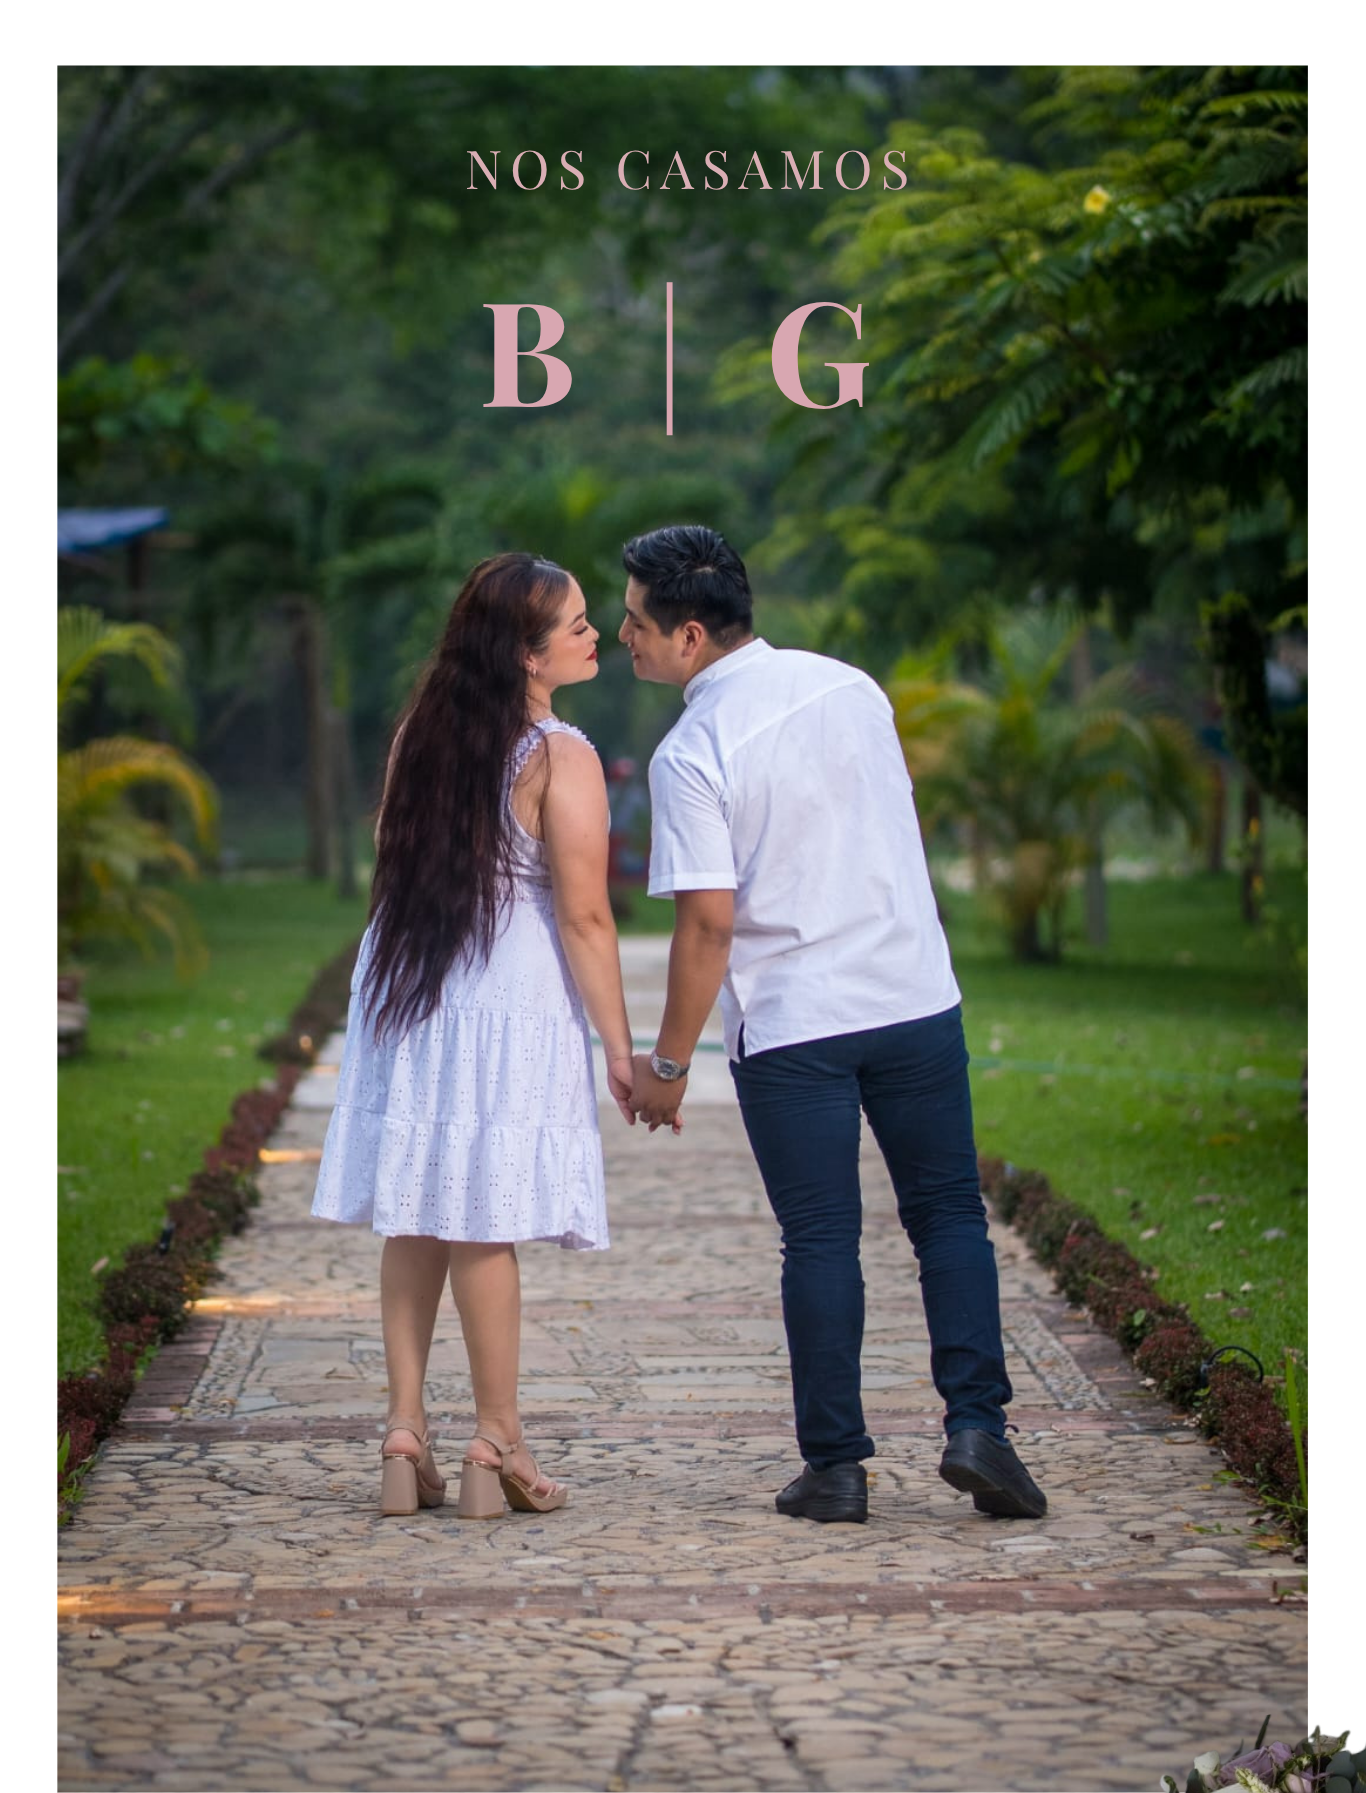
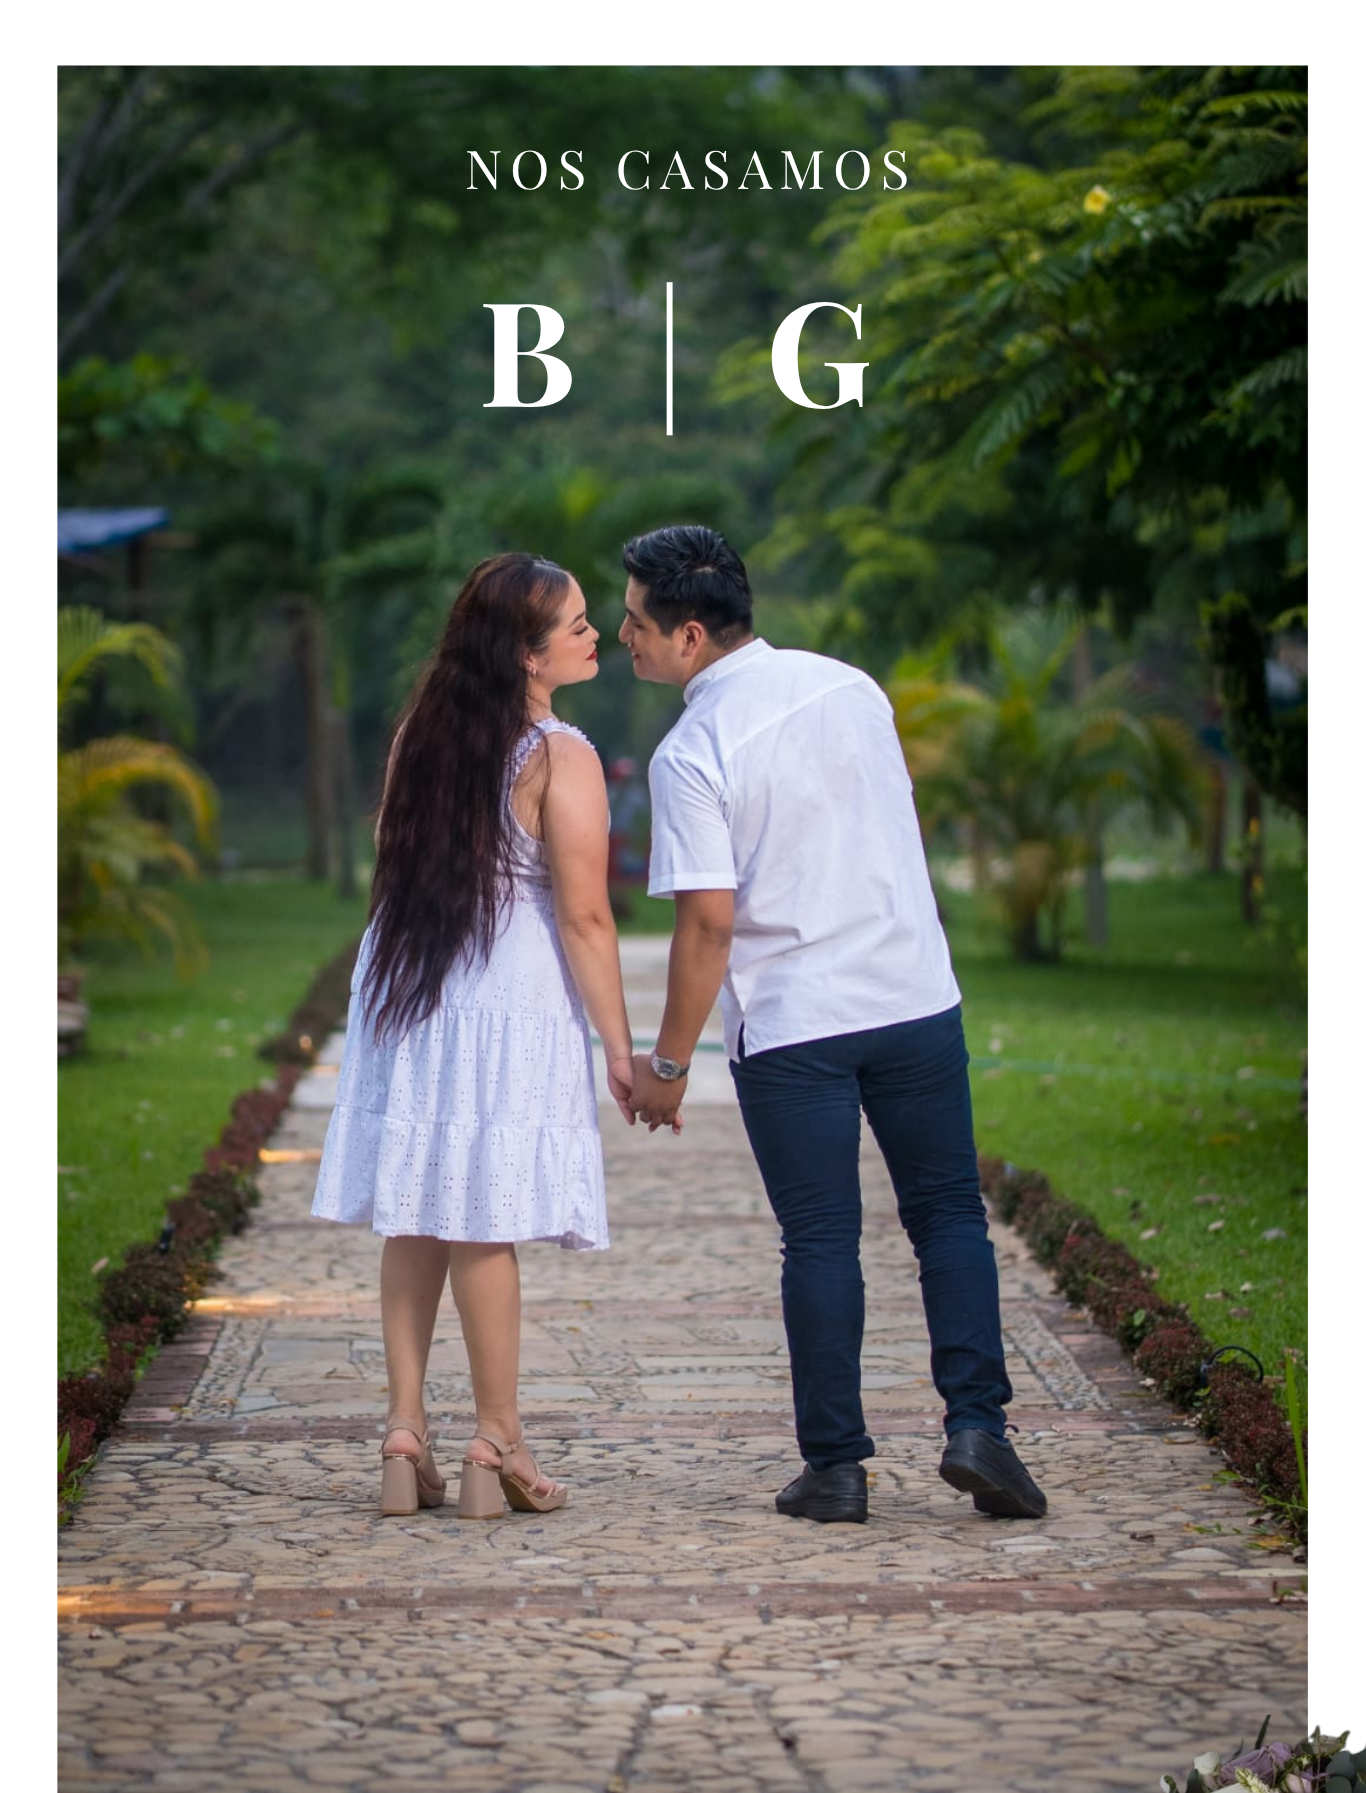
Doble correccion

diff --git a/style.css b/style.css
@@ -233,7 +233,7 @@ body.scroll-active {
 .punto {
     width: 8px;
     height: 8px;
-    background: #a67c7c;
+    background: #808000;
     border-radius: 50%;
     opacity: 0.3;
     transition: 0.3s;
@@ -244,7 +244,8 @@ body.scroll-active {
 .punto.active {
     opacity: 1;
     transform: scale(1.3);
-    box-shadow: 0 0 10px rgba(166, 124, 124, 0.5);
+    box-shadow: 0 0 10px rgba(99, 107, 47, 0.5);
+
 }
 
 /* BOTONES UBICACIÓN Y CONFIRMACIÓN */
